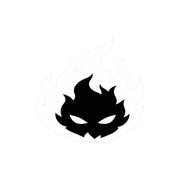
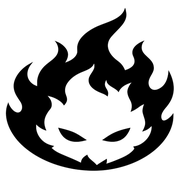
Configure Tab 1 tall vertical flame aspect ratio with xMidYMid meet alignment

diff --git a/src/app/(storefront)/layout.jsx b/src/app/(storefront)/layout.jsx
@@ -147,9 +147,9 @@ export default function RootLayout({ children }) {
   return (
     <html lang="en" suppressHydrationWarning>
       <head>
-        <link rel="icon" href="/icon.svg?v=13" type="image/svg+xml" />
-        <link rel="icon" href="/favicon.ico?v=13" sizes="any" />
-        <link rel="apple-touch-icon" href="/apple-icon.png?v=13" />
+        <link rel="icon" href="/icon.svg?v=14" type="image/svg+xml" />
+        <link rel="icon" href="/favicon.ico?v=14" sizes="any" />
+        <link rel="apple-touch-icon" href="/apple-icon.png?v=14" />
         <link rel="preconnect" href="https://fonts.googleapis.com" />
         <link rel="preconnect" href="https://fonts.gstatic.com" crossOrigin="anonymous" />
         <link href="https://fonts.googleapis.com/css2?family=Cause:wght@100..900&family=Sour+Gummy:ital,wght@0,100..900;1,100..900&display=swap" rel="stylesheet" />
